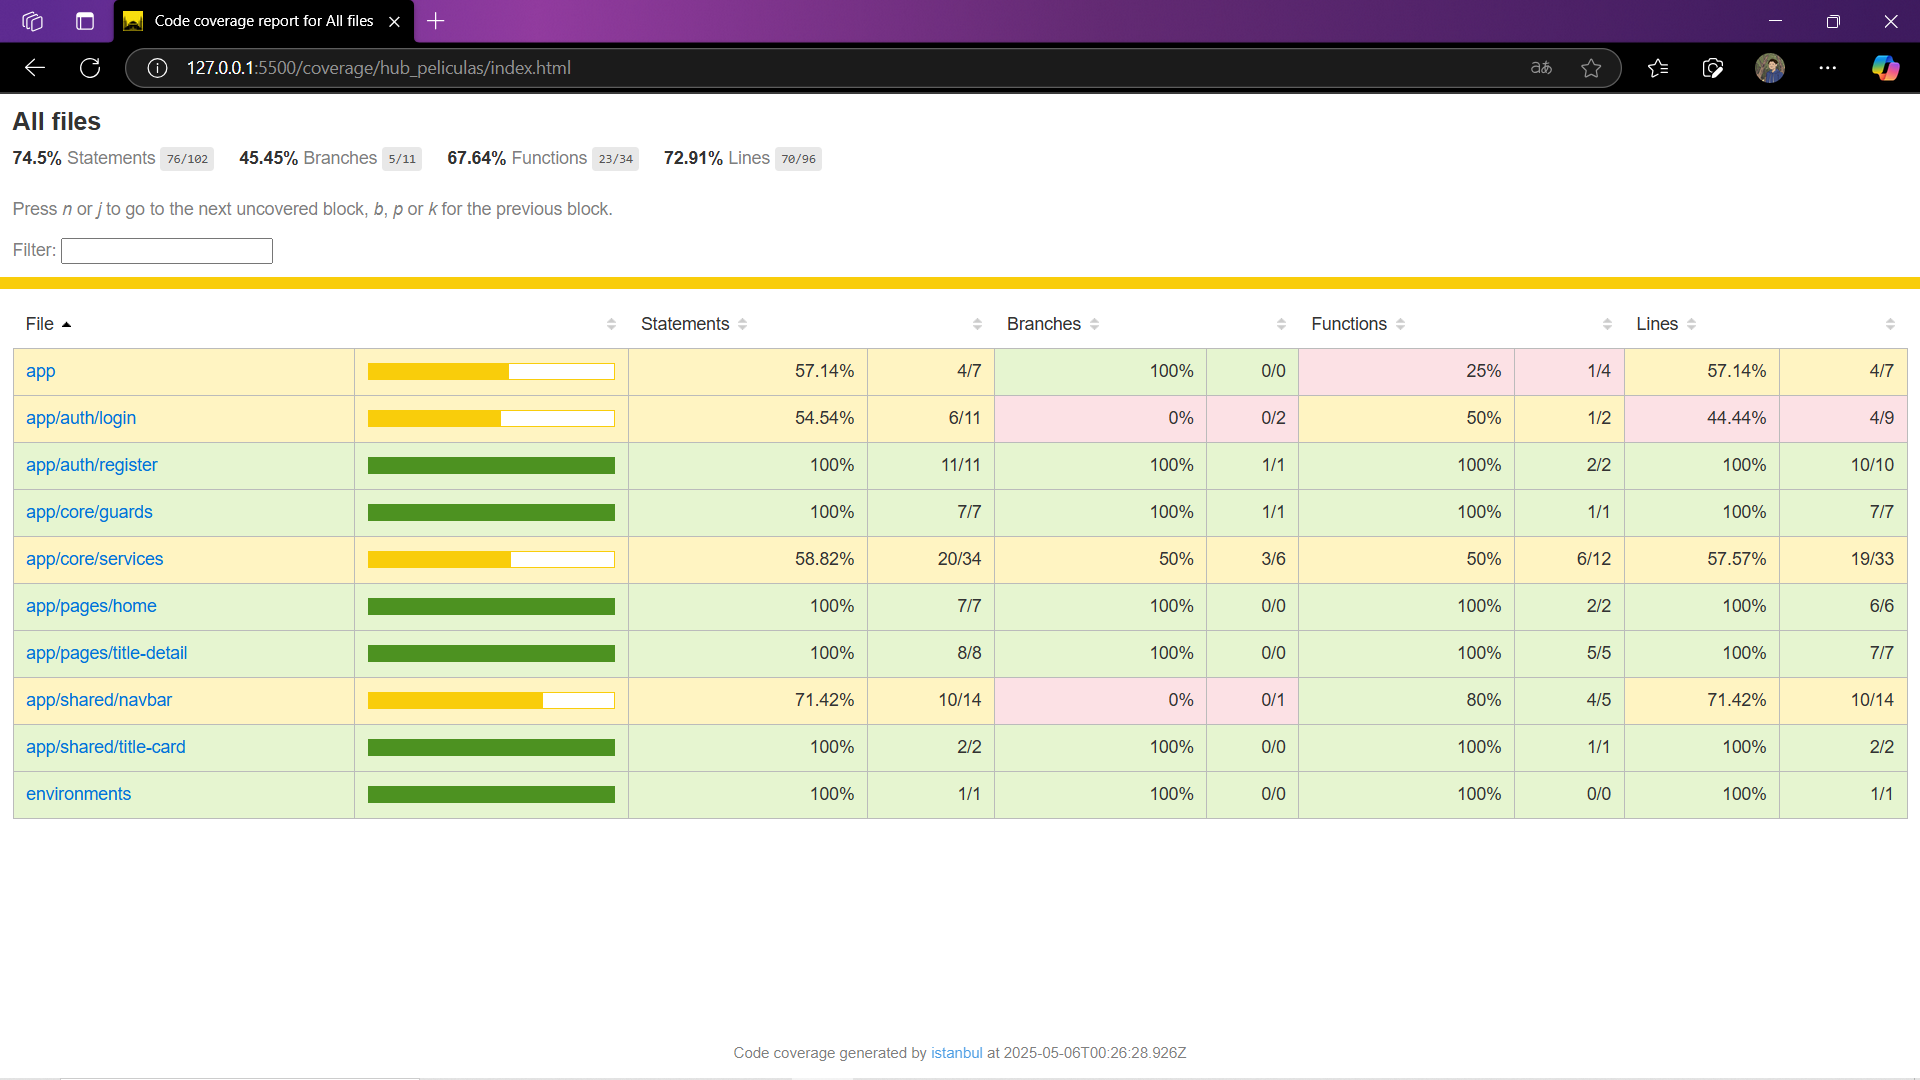
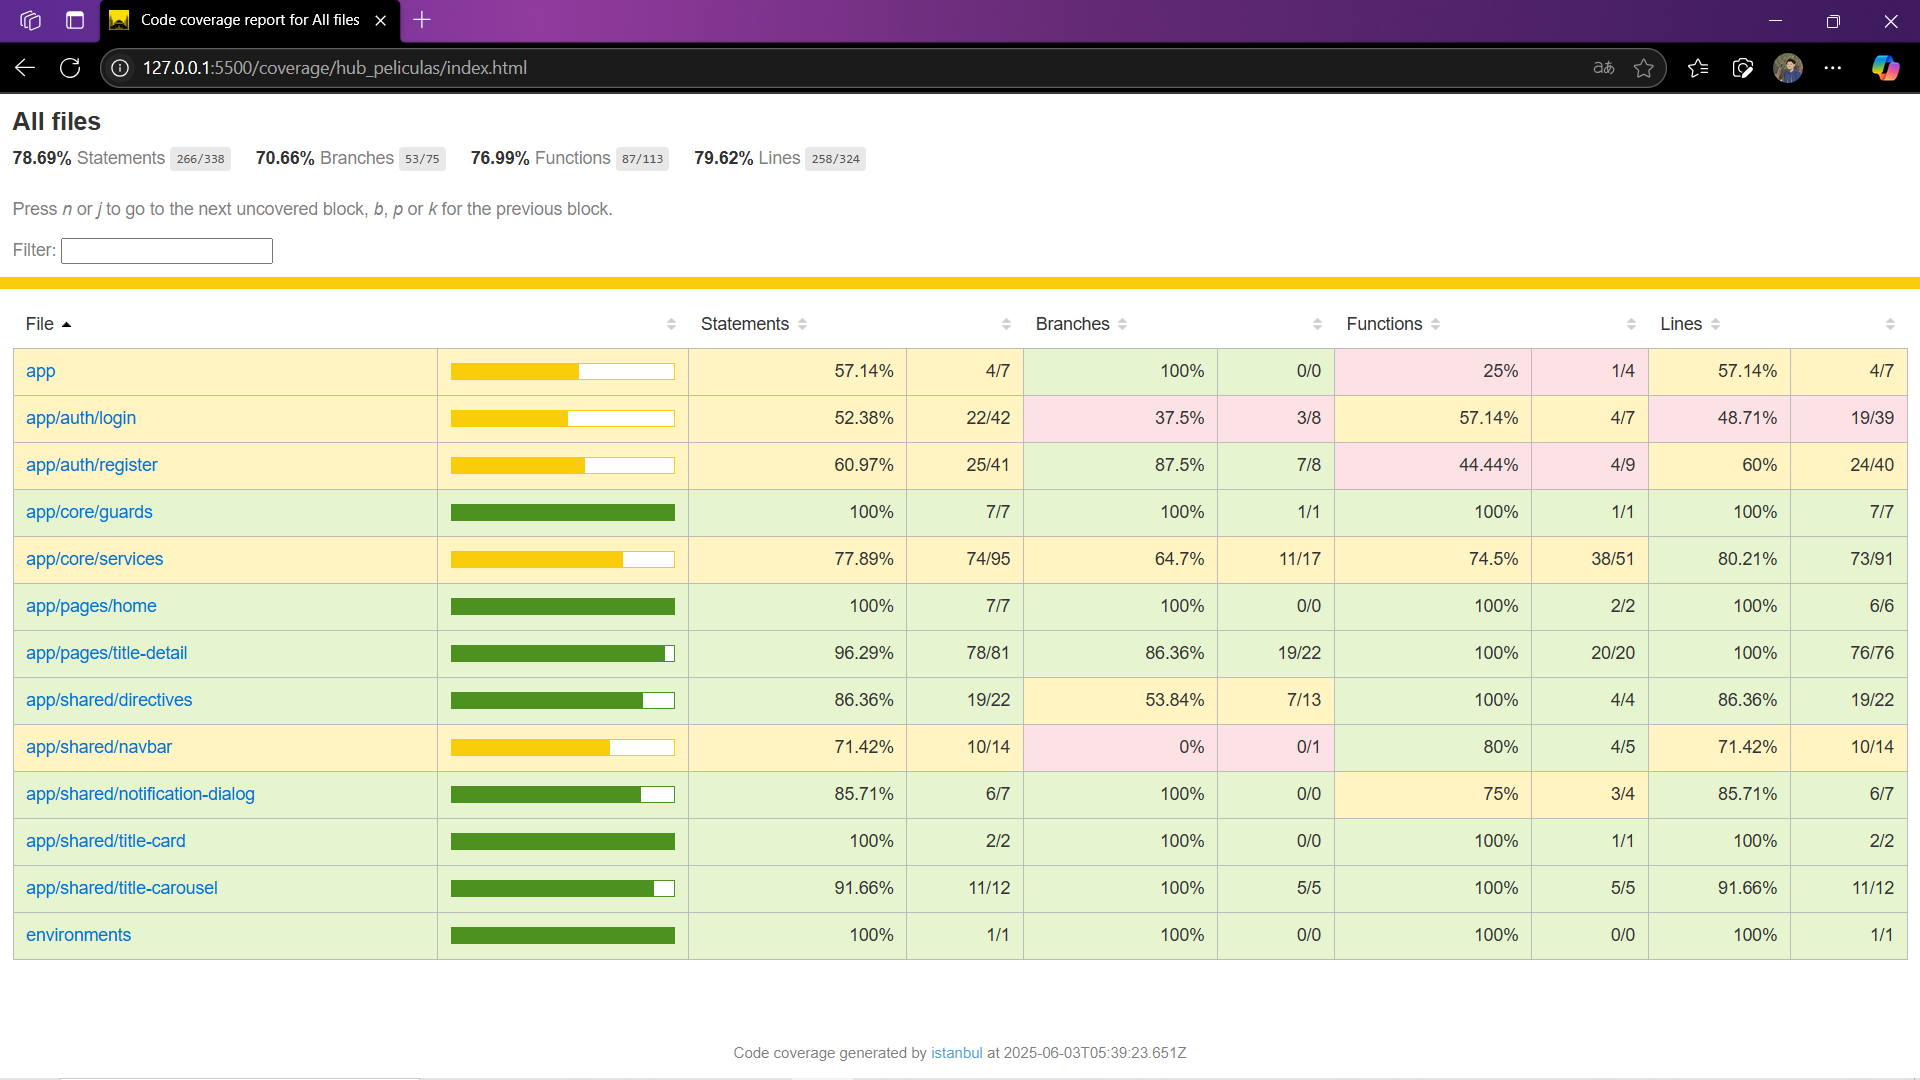
build: Sprint 5 completed

diff --git a/README.md b/README.md
@@ -2,10 +2,10 @@
 ## Jesús Isaac Estrada Ramírez
 
 ### Descripción
-- Este es el cuarto entregable del proyecto, en esta parte se trabajó principalmente en el diseño y creación de la base de datos, además de crear una API que nos servirá de puente entre la base de datos y nuestra aplicación además de una conexión inicial para ya validar el login y registro de usuarios, por ultimo se realizo el lazy loading a los componentes que lo necesitaran.
+- Este es el quinto entregable del proyecto, en esta parte se trabajó principalmente en el funcionamiento interno de la aplicación, con mejoras de la api, su documentación, algunos cambios estéticos y la conexión completa con nuestra aplicación de angular.
 ---
 ### Objetivo
-- Implementar la base de datos de T-SQL en el proyecto de maraton.
+- Implementar por completo la API en el proyecto.
 ---
 ### Requerimientos minimos
 - Windows 10
@@ -24,6 +24,7 @@
 - **RxJS**    7.8.1
 - **Karma**   6.4.4
 - **Jasmine** 4.6.1
+- **Microsoft.AspNetCore.Authentication.JwtBearer** 9.0.5
 - **Microsoft.AspNetCore.OpenApi** 9.0.4
 - **Microsoft.EntityFrameworkCore.SqlServer** 9.0.5
 - **Swashbuckle.AspNetCore** 8.1.1
@@ -79,11 +80,13 @@
 
 8. Configurar APIMaraton:
    - Abrir el archivo `\hub_peliculas-main\APIMaraton\Program.cs`
-   - En la linea `24` cambiar el link, por el obtenido al levantar tu aplicación de angular.
+   - En la linea `52` cambiar el link, por el obtenido al levantar tu aplicación de angular.
    - Abrir el archivo `\hub_peliculas-main\APIMaraton\appsettings.json`
    - Cambiamos el nombre de la base de datos por la que nosotros tengamos definida en SQL Server Management Studio
    - Nos dirigimos a la linea `10` y ahi escribimos el nombre de nuestra base `Server=EL-NOMBRE-DE-TU-BASE-DE-DATOS;`
    - En caso de no tener la autentificación de Windows, puedes refactorizar esa parte por tus credenciales.
+   - En la linea `14` cambiar el link, por el obtenido al levantar tu aplicación de angular, aqui tambien.
+   - En la linea `18` de `"SecretKey": ""` vas a remplazar las llaves vacias `""` por una llave que quieras privada y de preferencia en base64.
    - Abrir una terminal (bash)
    - Asegúrate de estar en la carpeta `\hub_peliculas-main\APIMaraton\`
    - Inicializar la API
@@ -125,42 +128,50 @@
 ![alt text](/assets/Diagrama-E-R-BD.jpg "Diagrama entidad – relación de la base de datos, mostrando sus tablas, relaciones, y como es que funcionan estas")
 ---
 ### Captura de pantalla
-![alt text](/assets/sprint04-01.png "Login funcional: Iniciar sesión")
-- Login funcional este es el apartado de inicio de sesión que cuenta con campo de correo y contraseña, y abajo tiene el botón de iniciar sesión para redirigirte al home
-![alt text](/assets/sprint04-02.png "Login funcional: Registrarse")
-- Login funcional este es el apartado de registrarse el cual cuenta con los campos de nombre, correo, contraseña y confirmar contraseña, además abajo tiene un botón de registrarse que los lleva al apartado de inicio de sesión, si los campos son invalidos al igual que el login los marca de rojo
-![alt text](/assets/sprint04-03.png "Home: Pagina principal")
-- Esta es la página principal del proyecto donde él se puede ver una barra superior con distintas opciones ademad de un botón para cerrar la sesión, más abajo se muestran los títulos divididos en 4 categorías que corresponden a las superiores, que si les damos clic nos llevara a cada categoria y cada categoria cuenta con un despliegue mas comodo para el usuario
-![alt text](/assets/sprint04-04.png "Home: Pagina principal fallo")
-- En caso de que alguna de las imagenes de la API de TMDB falle o no se cargue correctamente mostraremos una imagen por defecto cargada directamente en nuestro servidor como medida preventiva
-![alt text](/assets/sprint04-05.png "Title: título abierto")
-- Dentro de nuestra página principal podemos dar clic a las imágenes de los títulos y estos se abren, permitiendo mostrar los detalles del título, asi como 4 botones inferiores: "Ver ahora", "Agregar a favoritos"; Aun no tienen funcion estos botones hasta conectarlos a una base de datos, ademas haciendo clic a los botones de arriba nos llevaran a home
+![alt text](/assets/sprint05-01.png "Login fallo: Iniciar sesión")
+- Login funcional este es el apartado de inicio de sesión que cuenta con campo de correo y contraseña, y abajo tiene el botón de iniciar sesión para redirigirte al home, ahora cuenta con una alerta en la parte superior derecha que da feedback al usuario
+![alt text](/assets/sprint05-02.png "Login funcional: Registrarse")
+- Login funcional este es el apartado de registrarse el cual cuenta con los campos de nombre, correo, contraseña y confirmar contraseña, además abajo tiene un botón de registrarse que los lleva al apartado de inicio de sesión, si los campos son válidos saldrá una alerta superior derecha que nos dirá que si se pudo crear la cuenta
+![alt text](/assets/sprint05-03.png "Home: Pagina principal móvil")
+- Esta es la página principal del proyecto donde se aprecia como es que se ve visualmente la interfaz para dispositivos móviles 
+![alt text](/assets/sprint05-04.png "Title: título abierto")
+- Dentro de nuestra página principal podemos dar clic a las imágenes de los títulos y estos se abren, permitiendo mostrar los detalles del título, asi como 2 botones inferiores: "Agregar a favoritos", "Ocultar"; Estos almacenan nuestras preferencias además de que ahora la página es estéticamente más agradable a la vista
+![alt text](/assets/sprint05-05.png "Title: título abierto móvil")
+- Es el mismo diseño de la página anterior, pero ahora mostrar la vista que tiene para dispositivos móviles
+---
+### Documentación de la API - Swagger
+![alt text](/assets/swagger.png "Documentación de API MaratON")
+- La API que utilizamos se encuentra documentada correctamente
 ---
 ### Reporte Code Coverage
 ![alt text](/assets/code-coverage.png "Reporte del code coverage de MaratON")
-- Podemos apreciar que todos los tests superan el umbral del 50% (sprint 3 no actualizado)
+- Los test se encuentran actualizado a este ultimo entregable
 ---
 ### Reporte Testing
 ![alt text](/assets/testing.png "Reporte testing de MaratON")
-- Podemos apreciar los tests individuales realizados para cada archivo y como estos se realizaron satisfactoriamente (sprint 3 no actualizado)
+- Podemos apreciar los tests individuales realizados para cada archivo y como estos se realizaron satisfactoriamente
 ---
 ### ¿Cómo lo hice?
 El proyecto se desarrolló siguiendo estas etapas:
-1. Se comenzó por Arreglar el feedback obtenido el sprint 2 para que no hubiera tantas películas en home sueltas
-2. Se implemento una nueva característica para cambiar las imágenes, en caso de que fallen
-3. Se aplico lazy loading a los componentes que se consideró pertinentes
-4. Se diseño la base de datos e implemento en el servidor
-5. Se creo una API que funcionaria de intermediaria con toda la lógica lista para desplegarla en angular
-6. Se implemento la API en angular para los apartados de login y register de la aplicación además de dejar el ambiente preparado para las transacciones internas de la app
+1. Se comenzó por documentar la API, con la información que teníamos hasta el momento
+2. Después se trabajó en las nuevas características visuales de este sprint
+3. Se cambio partes del funcionamiento de la api, para utilizar tokens de jwt y se reacomodaron los cors
+4. Se implemento lo que faltaba de la api para guardar las preferencias de los usuarios
+5. Se reorganizo el login para que aceptara los tokens de inicio de sesión, además a agregar algunos mecanismos de seguridad extra en el front
+6. Con una base sólida se implementaron nuevos test para la mayor parte del proyecto de angular
+---
+### Mejoras futuras
+- Agregar más cosas útiles al proyecto para que se note un progreso entre cada entregable
+- No dejar los test para último momento
+- Poderle dedicar más tiempo a desarrollar los entregables del proyecto
 ---
 ### Errores
-- El boton de "Ver ahora", "Agregar a favoritos" no tienen funcionamiento
-- El testing no se actualizo para este spring
+- El testing del proyecto no alcanza el 100% y quedaron algunos test sin funcionar
 ---
 ### Retrospectiva
 #### ¿Qué hice bien?
-- Se logro crear la base de datos, la api, y una conexión funcional para el login
+- Se logro conectar el proyecto con la api, en las partes faltantes y todos los detalles implementados se cuidaron al máximo
 #### ¿Qué no salió bien?
-- No se realizó testing de las nuevas funciones, ni de las existentes que cambiaron de lógica
+- Algunos test no los pude solucionar y quedaron como pendientes
 #### ¿Qué puedo hacer diferente?
-- Ahora que lo más pesado está funcionando, puedo definir de manera correcta las funciones faltantes para ahora si darme tiempo de actualizar los test
+- Dedicarle más tiempo a todas las actividades que se realizan relacionadas con este proyecto para entregar un mejor resultado
